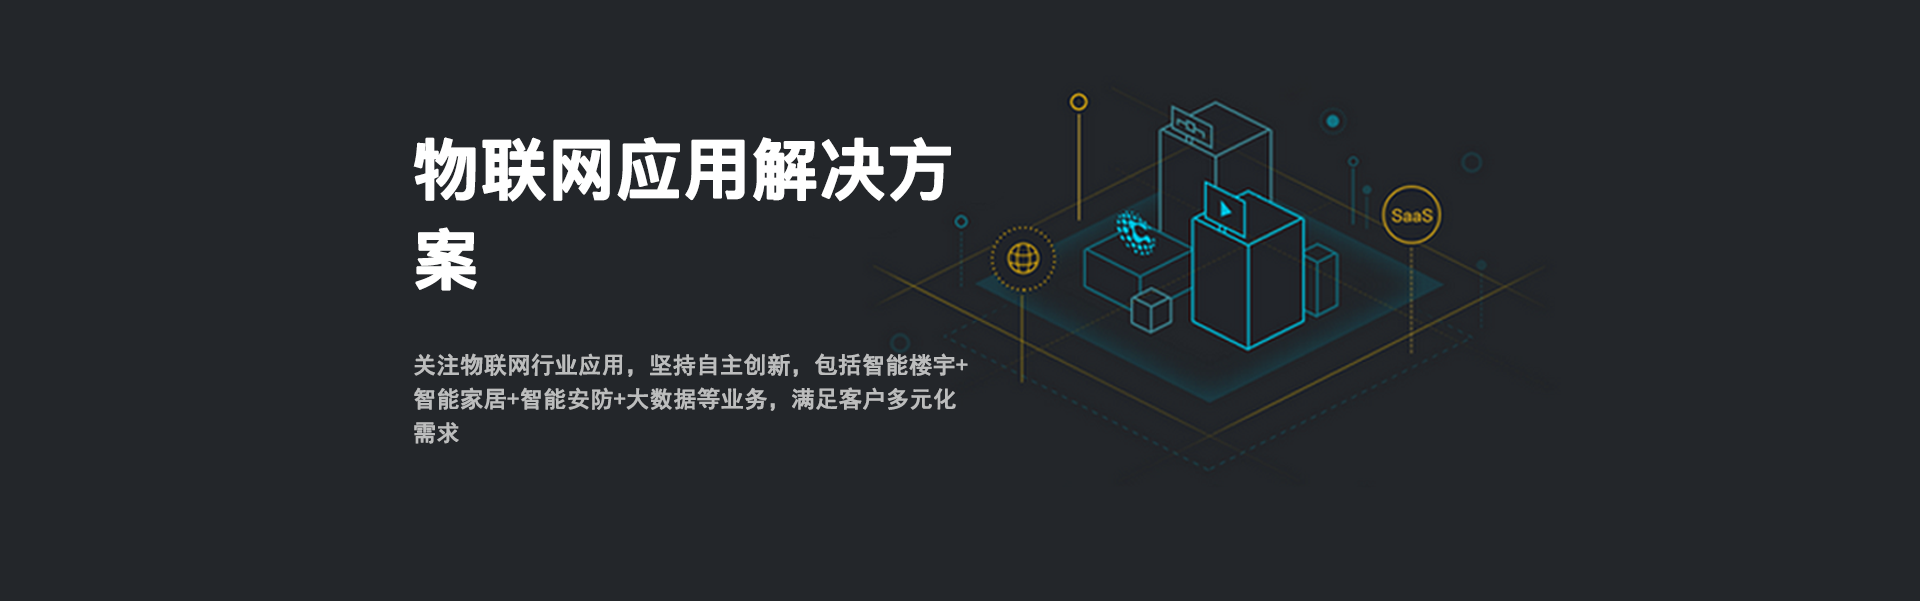
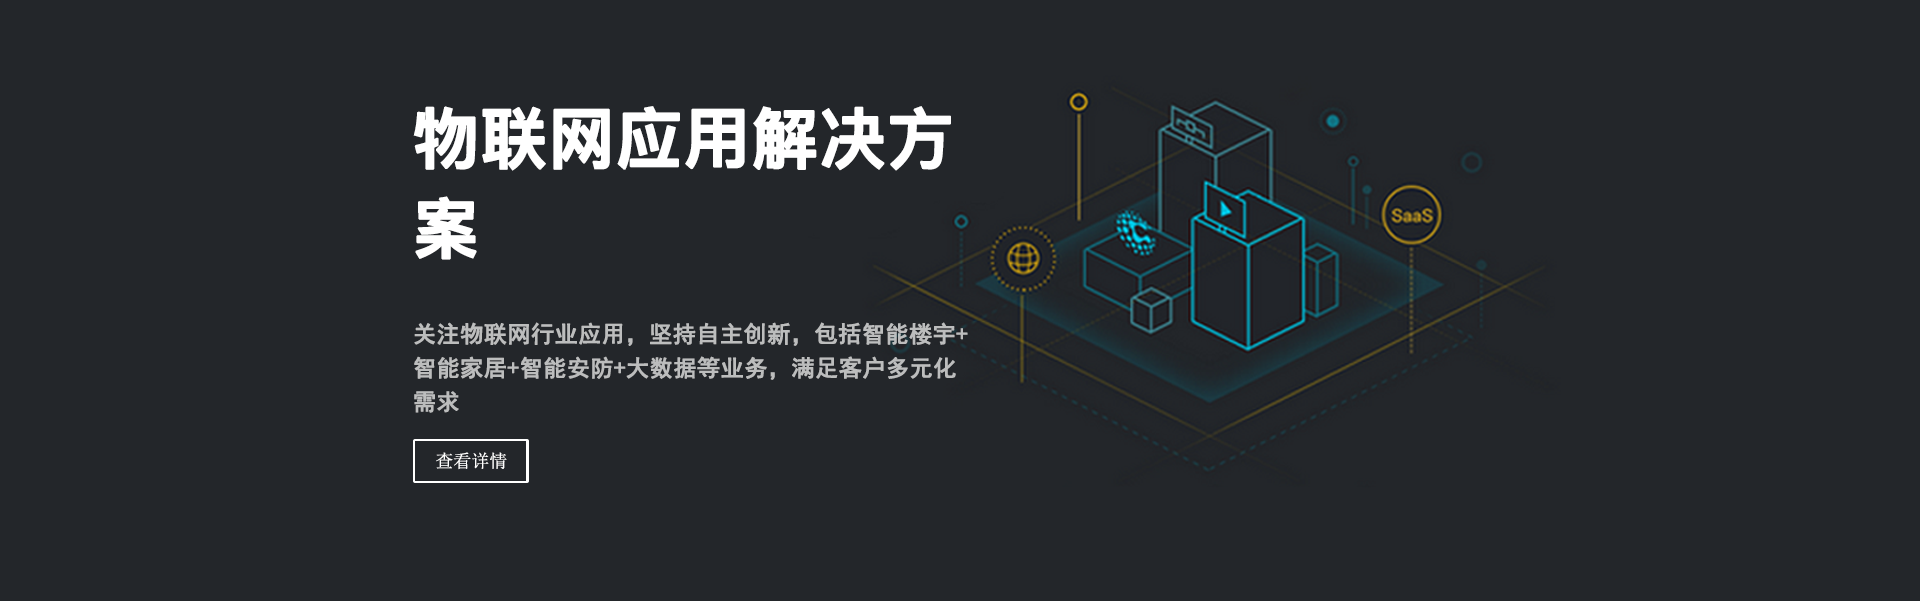
替换轮播图

Changed region(s): [[0.2188, 0.5391, 0.5, 0.8087], [0.2188, 0.1797, 0.5, 0.4792]]

diff --git a/html/css/index.css b/html/css/index.css
@@ -1,2 +1,2 @@
-*{margin:0;padding:0;font-size:12px}* a{text-decoration:none}* ul li{list-style:none}.content{padding-bottom:70px}.content .banner{position:relative;overflow:hidden}.content .banner .banner_con{width:100%;height:600px}.content .banner .banner_con .item{position:absolute;left:0;top:0;display:none}.content .banner .banner_con .item:nth-child(2n){animation:f1 5s}.content .banner .banner_con .item:nth-child(2n-1){animation:f2 5s}@keyframes f1{0%{transform:scale(1)}100%{transform:scale(1.05)}}@keyframes f2{from{transform:scale(1.05)}to{transform:scale(1)}}.content .banner .banner_con .item img{width:100%;height:600px}.content .banner .details{position:absolute;top:430px;left:500px}.content .banner .details a{display:inline-block;width:116px;height:45px;text-align:center;line-height:45px;border:2px solid #fff;color:#fff}.content .banner .list{position:absolute;z-index:99;width:1100px;left:50%;margin-left:-550px;bottom:30px}.content .banner .list li{float:left;height:70px;border-left:2px solid #fff;width:21%;padding-left:10px;display:table}.content .banner .list li.active{border-left:2px solid #f00}.content .banner .list li:hover{border-left:2px solid #f00}.content .banner .list li a{color:#fff;font-size:18px;font-weight:700;display:inline-block;width:100%;height:70px;display:table-cell;vertical-align:middle}.content .company{width:1100px;height:300px;margin:70px auto}.content .company .brief{width:520px;border-bottom:1px solid #cbcfce;height:30px;float:left}.content .company .brief .breif_title h3{font-size:16px;color:#333;font-weight:700;float:left}.content .company .brief .breif_title a{float:right;color:#999}.content .company .brief .brief_con{margin-top:50px}.content .company .brief .brief_con a{display:inline-block}.content .company .brief .brief_con a>div{width:520px;height:130px;overflow:hidden}.content .company .brief .brief_con a>div img{width:520px;height:130px;transition:0.5s}.content .company .brief .brief_con a>div img:hover{transform:scale(1.05);transition:0.5s}.content .company .brief .brief_con a p{margin-top:22px;color:#777;height:20px;line-height:20px}.content .company .dynamic{width:520px;border-bottom:1px solid #cbcfce;height:30px;float:right}.content .company .dynamic .dynamic_title h3{font-size:16px;color:#333;font-weight:700;float:left}.content .company .dynamic .dynamic_title a{float:right;color:#999}.content .company .dynamic .dynamic_con{margin-top:50px;color:#555}.content .company .dynamic .dynamic_con .dycon_top .toptext{float:left;width:305px}.content .company .dynamic .dynamic_con .dycon_top .toptext .textitle{font-size:14px;font-weight:700;width:305px;height:32px;overflow:hidden}.content .company .dynamic .dynamic_con .dycon_top .toptext .text{margin:20px 0}.content .company .dynamic .dynamic_con .dycon_top .toptext span{color:#999}.content .company .dynamic .dynamic_con .dycon_top .topimg{float:right;width:185px;height:158px;position:relative}.content .company .dynamic .dynamic_con .dycon_top .topimg img{width:150px;height:100px;position:absolute;display:none}.content .company .dynamic .dynamic_con .dycon_top .topimg img.curr{display:block}.content .company .dynamic .dynamic_con .dycon_bottom{clear:both}.content .company .dynamic .dynamic_con .dycon_bottom .bottext li{height:20px;line-height:20px}.content .company .dynamic .dynamic_con .dycon_bottom .bottext li p{float:left;width:305px;overflow:hidden;white-space:nowrap;text-overflow:ellipsis}.content .company .dynamic .dynamic_con .dycon_bottom .bottext li span{float:right;color:#999}.content .partner{width:1100px;margin:0 auto}.content .partner i{width:380px;height:1px;background:#606060;display:inline-block;position:relative}.content .partner .leftline{top:30px}.content .partner .rightline{top:-35px;left:720px}.content .partner h2{color:#333;font-size:16px;width:827px;height:50px;line-height:50px;margin:0 auto;border-top:3px solid #00012a;text-align:center}.content .partner .partner_con h5{float:left;font-size:14px;letter-spacing:3px;line-height:40px;text-align:right;width:100px}.content .partner .partner_con ul{height:50px;margin:30px 0}.content .partner .partner_con ul li{float:left;width:100px;height:50px;margin:0 50px}.content .partner .partner_con a{display:inline-block;width:100px;height:50px;background-size:100% 100%}.content .partner .partner_con a:hover{background-size:100% 100%}.content .partner .partner_con .operator ul .yd a{background:url("/html/img/index/yidong.png") no-repeat center;background-size:100% 100%}.content .partner .partner_con .operator ul .yd a:hover{background:url("/html/img/index/yidong-click.png") no-repeat center;background-size:100% 100%}.content .partner .partner_con .operator ul .dx a{background:url("/html/img/index/dianxin.png") no-repeat center;background-size:100% 100%}.content .partner .partner_con .operator ul .dx a:hover{background:url("/html/img/index/dianxin-click.png") no-repeat center;background-size:100% 100%}.content .partner .partner_con .operator ul .lt a{background:url("/html/img/index/liantong.png") no-repeat center;background-size:100% 100%}.content .partner .partner_con .operator ul .lt a:hover{background:url("/html/img/index/liantong-click.png") no-repeat center;background-size:100% 100%}.content .partner .partner_con .vender .hw a{background:url("/html/img/index/huawei.png") no-repeat center;background-size:100% 100%}.content .partner .partner_con .vender .hw a:hover{background:url("/html/img/index/huawei-click.png") no-repeat center;background-size:100% 100%}.content .partner .partner_con .vender .zx a{background:url("/html/img/index/zhongxing.png") no-repeat center;background-size:100% 100%}.content .partner .partner_con .vender .zx a:hover{background:url("/html/img/index/zhongxing-click.png") no-repeat center;background-size:100% 100%}.content .partner .partner_con .vender .dtyd a{background:url("/html/img/index/damoblle.png") no-repeat center;background-size:100% 100%}.content .partner .partner_con .vender .dtyd a:hover{background:url("/html/img/index/damoblle-click.png") no-repeat center;background-size:100% 100%}.content .partner .partner_con .vender .nokia a{background:url("/html/img/index/nokia.png") no-repeat center;background-size:100% 100%}.content .partner .partner_con .vender .nokia a:hover{background:url("/html/img/index/nokia-click.png") no-repeat center;background-size:100% 100%}.content .partner .partner_con .vender .erisson a{background:url("/html/img/index/ericsson.png") no-repeat center;background-size:100% 100%}.content .partner .partner_con .vender .erisson a:hover{background:url("/html/img/index/ericsson-click.png") no-repeat center;background-size:100% 100%}.content .partner .partner_con .govt .gov a{background:url("/html/img/index/img.png") no-repeat center;background-size:100% 100%}.content .partner .partner_con .govt .gov a:hover{background:url("/html/img/index/img1-click.png") no-repeat center;background-size:100% 100%}
+*{margin:0;padding:0;font-size:12px}* a{text-decoration:none}* ul li{list-style:none}.content{padding-bottom:70px}.content .banner{position:relative;overflow:hidden}.content .banner .banner_con{width:100%;height:600px}.content .banner .banner_con .item{position:absolute;left:0;top:0;display:none}.content .banner .banner_con .item:nth-child(2n){animation:f1 5s}.content .banner .banner_con .item:nth-child(2n-1){animation:f2 5s}@keyframes f1{0%{transform:scale(1)}100%{transform:scale(1.05)}}@keyframes f2{from{transform:scale(1.05)}to{transform:scale(1)}}.content .banner .banner_con .item img{width:100%;height:600px}.content .banner .list{position:absolute;z-index:99;width:1100px;left:50%;margin-left:-550px;bottom:30px}.content .banner .list li{float:left;height:70px;border-left:2px solid #fff;width:21%;padding-left:10px;display:table}.content .banner .list li.active{border-left:2px solid #f00}.content .banner .list li:hover{border-left:2px solid #f00}.content .banner .list li a{color:#fff;font-size:18px;font-weight:700;display:inline-block;width:100%;height:70px;display:table-cell;vertical-align:middle}.content .company{width:1100px;height:300px;margin:70px auto}.content .company .brief{width:520px;border-bottom:1px solid #cbcfce;height:30px;float:left}.content .company .brief .breif_title h3{font-size:16px;color:#333;font-weight:700;float:left}.content .company .brief .breif_title a{float:right;color:#999}.content .company .brief .brief_con{margin-top:50px}.content .company .brief .brief_con a{display:inline-block}.content .company .brief .brief_con a>div{width:520px;height:130px;overflow:hidden}.content .company .brief .brief_con a>div img{width:520px;height:130px;transition:0.5s}.content .company .brief .brief_con a>div img:hover{transform:scale(1.05);transition:0.5s}.content .company .brief .brief_con a p{margin-top:22px;color:#777;height:20px;line-height:20px}.content .company .dynamic{width:520px;border-bottom:1px solid #cbcfce;height:30px;float:right}.content .company .dynamic .dynamic_title h3{font-size:16px;color:#333;font-weight:700;float:left}.content .company .dynamic .dynamic_title a{float:right;color:#999}.content .company .dynamic .dynamic_con{margin-top:50px;color:#555}.content .company .dynamic .dynamic_con .dycon_top .toptext{float:left;width:305px}.content .company .dynamic .dynamic_con .dycon_top .toptext .textitle{font-size:14px;font-weight:700;width:305px;height:32px;overflow:hidden}.content .company .dynamic .dynamic_con .dycon_top .toptext .text{margin:20px 0}.content .company .dynamic .dynamic_con .dycon_top .toptext span{color:#999}.content .company .dynamic .dynamic_con .dycon_top .topimg{float:right;width:185px;height:158px;position:relative}.content .company .dynamic .dynamic_con .dycon_top .topimg img{width:150px;height:100px;position:absolute;display:none}.content .company .dynamic .dynamic_con .dycon_top .topimg img.curr{display:block}.content .company .dynamic .dynamic_con .dycon_bottom{clear:both}.content .company .dynamic .dynamic_con .dycon_bottom .bottext li{height:20px;line-height:20px}.content .company .dynamic .dynamic_con .dycon_bottom .bottext li p{float:left;width:305px;overflow:hidden;white-space:nowrap;text-overflow:ellipsis}.content .company .dynamic .dynamic_con .dycon_bottom .bottext li span{float:right;color:#999}.content .partner{width:1100px;margin:0 auto}.content .partner i{width:380px;height:1px;background:#606060;display:inline-block;position:relative}.content .partner .leftline{top:30px}.content .partner .rightline{top:-35px;left:720px}.content .partner h2{color:#333;font-size:16px;width:827px;height:50px;line-height:50px;margin:0 auto;border-top:3px solid #00012a;text-align:center}.content .partner .partner_con h5{float:left;font-size:14px;letter-spacing:3px;line-height:40px;text-align:right;width:100px}.content .partner .partner_con ul{height:50px;margin:30px 0}.content .partner .partner_con ul li{float:left;width:100px;height:50px;margin:0 50px}.content .partner .partner_con a{display:inline-block;width:100px;height:50px;background-size:100% 100%}.content .partner .partner_con a:hover{background-size:100% 100%}.content .partner .partner_con .operator ul .yd a{background:url("/html/img/index/yidong.png") no-repeat center;background-size:100% 100%}.content .partner .partner_con .operator ul .yd a:hover{background:url("/html/img/index/yidong-click.png") no-repeat center;background-size:100% 100%}.content .partner .partner_con .operator ul .dx a{background:url("/html/img/index/dianxin.png") no-repeat center;background-size:100% 100%}.content .partner .partner_con .operator ul .dx a:hover{background:url("/html/img/index/dianxin-click.png") no-repeat center;background-size:100% 100%}.content .partner .partner_con .operator ul .lt a{background:url("/html/img/index/liantong.png") no-repeat center;background-size:100% 100%}.content .partner .partner_con .operator ul .lt a:hover{background:url("/html/img/index/liantong-click.png") no-repeat center;background-size:100% 100%}.content .partner .partner_con .vender .hw a{background:url("/html/img/index/huawei.png") no-repeat center;background-size:100% 100%}.content .partner .partner_con .vender .hw a:hover{background:url("/html/img/index/huawei-click.png") no-repeat center;background-size:100% 100%}.content .partner .partner_con .vender .zx a{background:url("/html/img/index/zhongxing.png") no-repeat center;background-size:100% 100%}.content .partner .partner_con .vender .zx a:hover{background:url("/html/img/index/zhongxing-click.png") no-repeat center;background-size:100% 100%}.content .partner .partner_con .vender .dtyd a{background:url("/html/img/index/damoblle.png") no-repeat center;background-size:100% 100%}.content .partner .partner_con .vender .dtyd a:hover{background:url("/html/img/index/damoblle-click.png") no-repeat center;background-size:100% 100%}.content .partner .partner_con .vender .nokia a{background:url("/html/img/index/nokia.png") no-repeat center;background-size:100% 100%}.content .partner .partner_con .vender .nokia a:hover{background:url("/html/img/index/nokia-click.png") no-repeat center;background-size:100% 100%}.content .partner .partner_con .vender .erisson a{background:url("/html/img/index/ericsson.png") no-repeat center;background-size:100% 100%}.content .partner .partner_con .vender .erisson a:hover{background:url("/html/img/index/ericsson-click.png") no-repeat center;background-size:100% 100%}.content .partner .partner_con .govt .gov a{background:url("/html/img/index/img.png") no-repeat center;background-size:100% 100%}.content .partner .partner_con .govt .gov a:hover{background:url("/html/img/index/img1-click.png") no-repeat center;background-size:100% 100%}
 /*# sourceMappingURL=index.css.map */

diff --git a/html/css/about.css b/html/css/about.css
@@ -1,2 +1,2 @@
-.aboutcon{background:#F3F3F3}.aboutcon .profile{margin-top:50px}.aboutcon .il_tr{height:510px}.aboutcon .il_tr .imgLeft{float:left;height:508px;overflow:hidden}.aboutcon .il_tr .imgLeft img{transition:0.5s;-webkit-transition:0.5s;-moz-transition:0.5s}.aboutcon .il_tr .imgLeft:hover img{transform:scale(1.1);-webkit-transform:scale(1.1);-moz-transform:scale(1.1);transition:0.5s;-webkit-transition:0.5s;-moz-transition:0.5s}.aboutcon .il_tr .textRight{position:relative;float:left;width:415px;height:508px;margin-left:28px}.aboutcon .il_tr .textRight h2{font-size:30px;margin-top:20px}.aboutcon .il_tr .textRight .text div{font-size:14px;margin-top:20px;line-height:20px;height:100px;overflow:hidden}.aboutcon .il_tr .textRight a{font-size:14px;font-weight:700;border:2px solid #4898ea;color:#4898ea;padding:10px 20px;position:absolute;bottom:90px}.aboutcon .tl_ir{height:510px}.aboutcon .tl_ir .textLeft{position:relative;float:right;width:415px;height:508px;margin-right:28px}.aboutcon .tl_ir .textLeft h2{font-size:30px;margin-top:20px}.aboutcon .tl_ir .textLeft .text div{font-size:14px;margin-top:20px;line-height:20px;height:100px;overflow:hidden}.aboutcon .tl_ir .textLeft a{font-size:14px;font-weight:700;border:2px solid #4898ea;color:#4898ea;padding:10px 20px;position:absolute;bottom:90px}.aboutcon .tl_ir .imgRight{float:right;overflow:hidden}.aboutcon .tl_ir .imgRight img{transition:0.5s;-webkit-transition:0.5s;-moz-transition:0.5s}.aboutcon .tl_ir .imgRight:hover img{transform:scale(1.1);-webkit-transform:scale(1.1);-moz-transform:scale(1.1);transition:0.5s;-webkit-transition:0.5s;-moz-transition:0.5s}
+.aboutcon{background:#F3F3F3;padding-bottom:30px}.aboutcon .profile{margin-top:50px}.aboutcon .il_tr{height:510px}.aboutcon .il_tr .imgLeft{float:left;height:508px;overflow:hidden}.aboutcon .il_tr .imgLeft img{transition:0.5s;-webkit-transition:0.5s;-moz-transition:0.5s}.aboutcon .il_tr .imgLeft:hover img{transform:scale(1.1);-webkit-transform:scale(1.1);-moz-transform:scale(1.1);transition:0.5s;-webkit-transition:0.5s;-moz-transition:0.5s}.aboutcon .il_tr .textRight{position:relative;float:left;width:415px;height:508px;margin-left:28px}.aboutcon .il_tr .textRight h2{font-size:30px;margin-top:20px}.aboutcon .il_tr .textRight .text div{font-size:14px;margin-top:20px;line-height:20px;height:100px;overflow:hidden}.aboutcon .il_tr .textRight a{font-size:14px;font-weight:700;border:2px solid #4898ea;color:#4898ea;padding:10px 20px;position:absolute;bottom:90px}.aboutcon .tl_ir{height:510px}.aboutcon .tl_ir .textLeft{position:relative;float:right;width:415px;height:508px;margin-right:28px}.aboutcon .tl_ir .textLeft h2{font-size:30px;margin-top:20px}.aboutcon .tl_ir .textLeft .text div{font-size:14px;margin-top:20px;line-height:20px;height:100px;overflow:hidden}.aboutcon .tl_ir .textLeft a{font-size:14px;font-weight:700;border:2px solid #4898ea;color:#4898ea;padding:10px 20px;position:absolute;bottom:90px}.aboutcon .tl_ir .imgRight{float:right;overflow:hidden}.aboutcon .tl_ir .imgRight img{transition:0.5s;-webkit-transition:0.5s;-moz-transition:0.5s}.aboutcon .tl_ir .imgRight:hover img{transform:scale(1.1);-webkit-transform:scale(1.1);-moz-transform:scale(1.1);transition:0.5s;-webkit-transition:0.5s;-moz-transition:0.5s}
 /*# sourceMappingURL=about.css.map */

diff --git a/html/index.html b/html/index.html
@@ -63,20 +63,16 @@
         <div class="banner">
             <div class="banner_con">
                 <div class="item" style="display:block">
-                    <a href="/html/tpls/aboutUs_team.html "> <img src="/html/img/index/banner.png" ></a>
-                    <div class="details"><a href="/html/tpls/aboutUs_team.html ">查看详情</a></div>
-                </div>
-                <div class="item" >
-                    <a href="/html/tpls/aboutUs_team.html"><img src="/html/img/about/big_Team.png" ></a>
-                    <div class="details"><a href="/html/tpls/aboutUs_team.html ">查看详情</a></div>
-                </div>
-                <div class="item">
-                    <a href="/html/tpls/aboutUs_team.html"><img src="/html/img/index/zhongqiu.png" ></a>
-                    <div class="details"><a href="/html/tpls/aboutUs_team.html ">查看详情</a></div>
+                    <a href="/html/tpls/aboutUs_team.html "> <img src="/html/img/index/wlyh.png" ></a>
                 </div>
                 <div class="item" >
                     <a href="/html/tpls/aboutUs_team.html"><img src="/html/img/index/wlwyy.png" ></a>
-                    <div class="details"><a href="/html/tpls/aboutUs_team.html ">查看详情</a></div>
+                </div>
+                <div class="item">
+                    <a href="/html/tpls/aboutUs_team.html"><img src="/html/img/index/rjyth.png" ></a>
+                </div>
+                <div class="item" >
+                    <a href="/html/tpls/aboutUs_team.html"><img src="/html/img/index/ggyxch.png" ></a>
                 </div>
             </div>
             <ul class="list">
@@ -84,10 +80,10 @@
                     <a href="javascript:void(0)">网络优化与系统集成一体化解决方案</a>
                 </li>
                 <li>
-                    <a href="javascript:void(0)">关于我们</a>
+                    <a href="javascript:void(0)">物联网应用解决方案</a>
                 </li>
                 <li>
-                    <a href="javascript:void(0)">中秋福利</a>
+                    <a href="javascript:void(0)">软件一体化解决方案</a>
                 </li>
                 <li>
                     <a href="javascript:void(0)">广告营销策划一体化解决方案</a>
@@ -123,10 +119,10 @@
                         </div>
                         <div class="topimg">
                             <img src="/html/img/index/img1-click.png" class="curr">
-                            <img src="/html/img/index/dianxin-click.png" >
-                            <img src="/html/img/index/huawei-click.png" >
-                            <img src="/html/img/index/img1-click.png" >
-                            <img src="/html/img/index/nokia-click.png" >
+                            <img src="/html/img/index/img2.png" >
+                            <img src="/html/img/index/img3.png" >
+                            <img src="/html/img/index/img4.png" >
+                            <img src="/html/img/index/img5.png" >
                         </div>
                     </div>
                     <div class="dycon_bottom">

diff --git a/html/js/index.js b/html/js/index.js
@@ -41,15 +41,9 @@ $(function(){
     function dynamic(){
         var imgIndex = $('.dynamic_con .topimg img').filter('.curr').index();
         var nextInd = imgIndex+1
-        var dynLen = $('.dynamic_con .topimg img').length
-        for(var i=0;i<dynLen; i++){
-            $('.dynamic_con .topimg img').eq(i).css('z-index',-i);
-        }
+        var dynLen = $('.dynamic_con .topimg img').length;
          setInterval(function(){
-
             $('.dynamic_con .topimg img').eq(imgIndex).fadeOut(1000);
-            $('.dynamic_con .topimg img').removeClass('curr');
-            $('.dynamic_con .topimg img').eq(nextInd).addClass('curr');
             $('.dynamic_con .topimg img').eq(nextInd).fadeIn(1000);
             imgIndex = nextInd;
             nextInd = imgIndex + 1 < dynLen ? imgIndex + 1 : 0;

diff --git a/html/css/index.scss b/html/css/index.scss
@@ -41,20 +41,6 @@
 
       }
     }
-    .details{
-      position:absolute;
-      top:430px;
-      left:500px;
-      a{
-        display:inline-block;
-        width:116px;
-        height:45px;
-        text-align:center;
-        line-height:45px;
-        border:2px solid #fff;
-        color:#fff;
-      }
-    }
     .list{
       position:absolute;
       z-index:99;
@@ -84,7 +70,8 @@
           display:inline-block;
           width:100%;
           height:70px;
-          display: table-cell; vertical-align:middle;
+          display: table-cell;
+          vertical-align:middle;
         }
 
 

diff --git a/html/css/about.scss b/html/css/about.scss
@@ -1,5 +1,6 @@
 .aboutcon{
   background:#F3F3F3;
+  padding-bottom:30px;
   .profile{
     margin-top:50px;
   }
